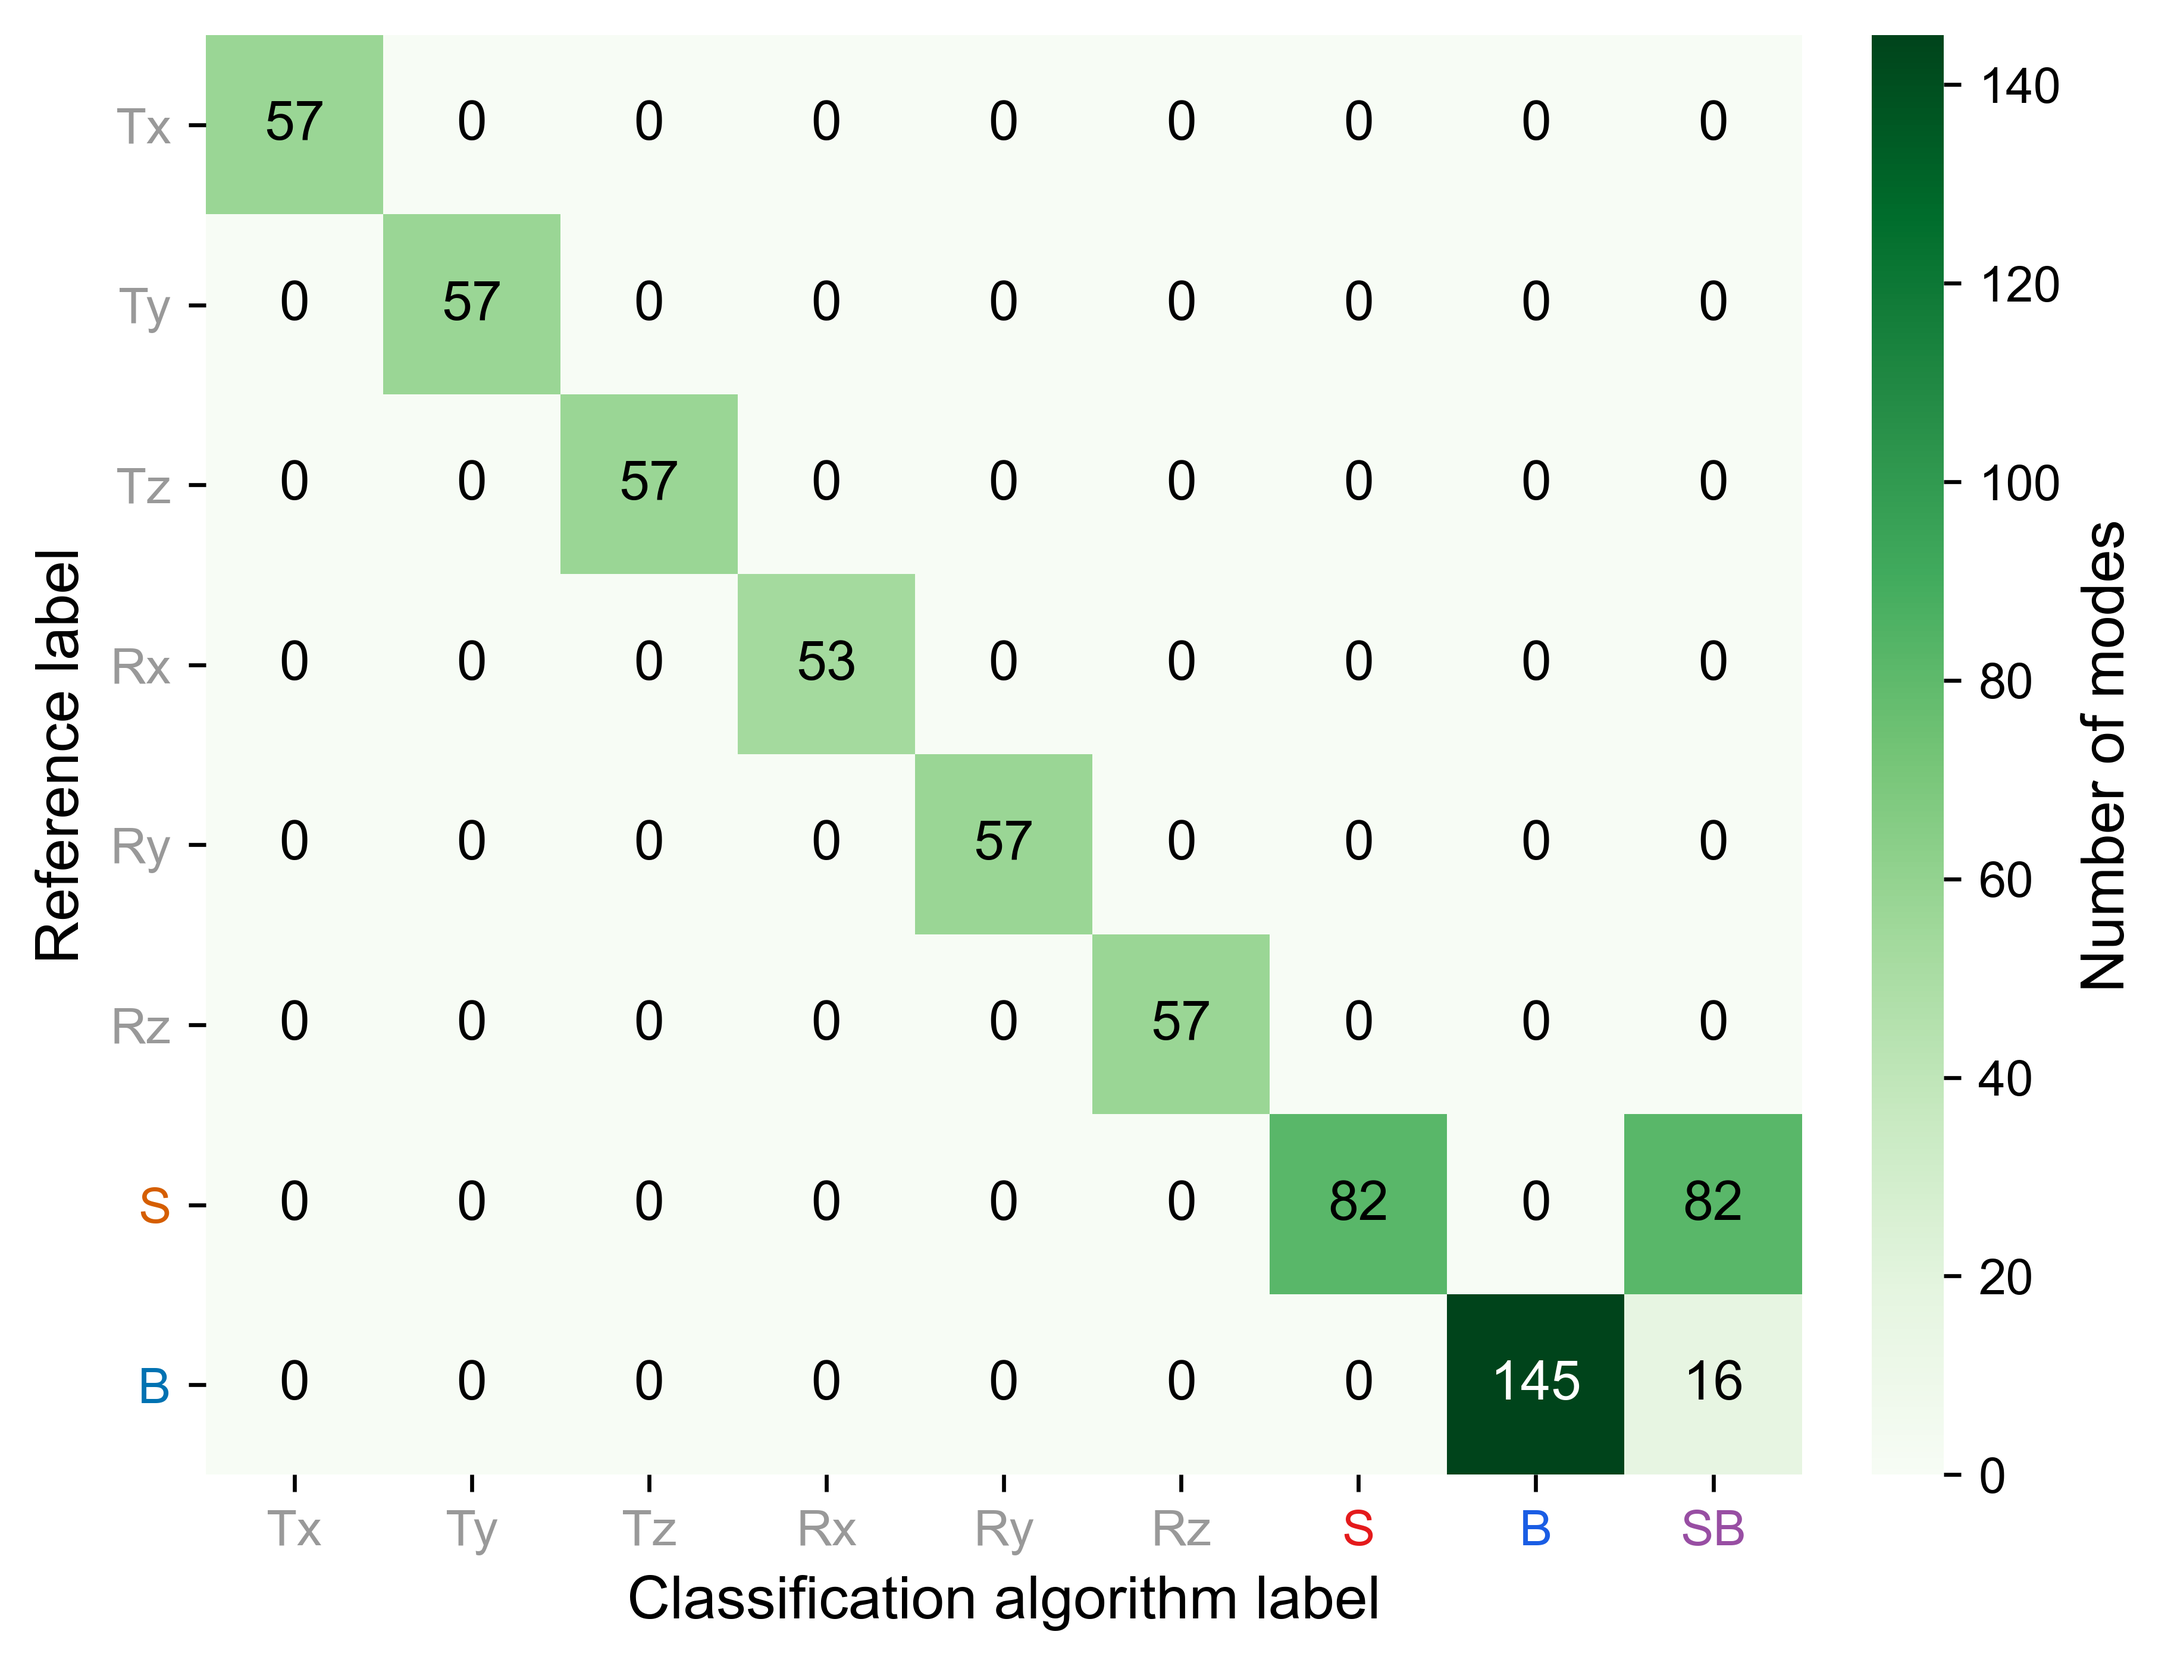
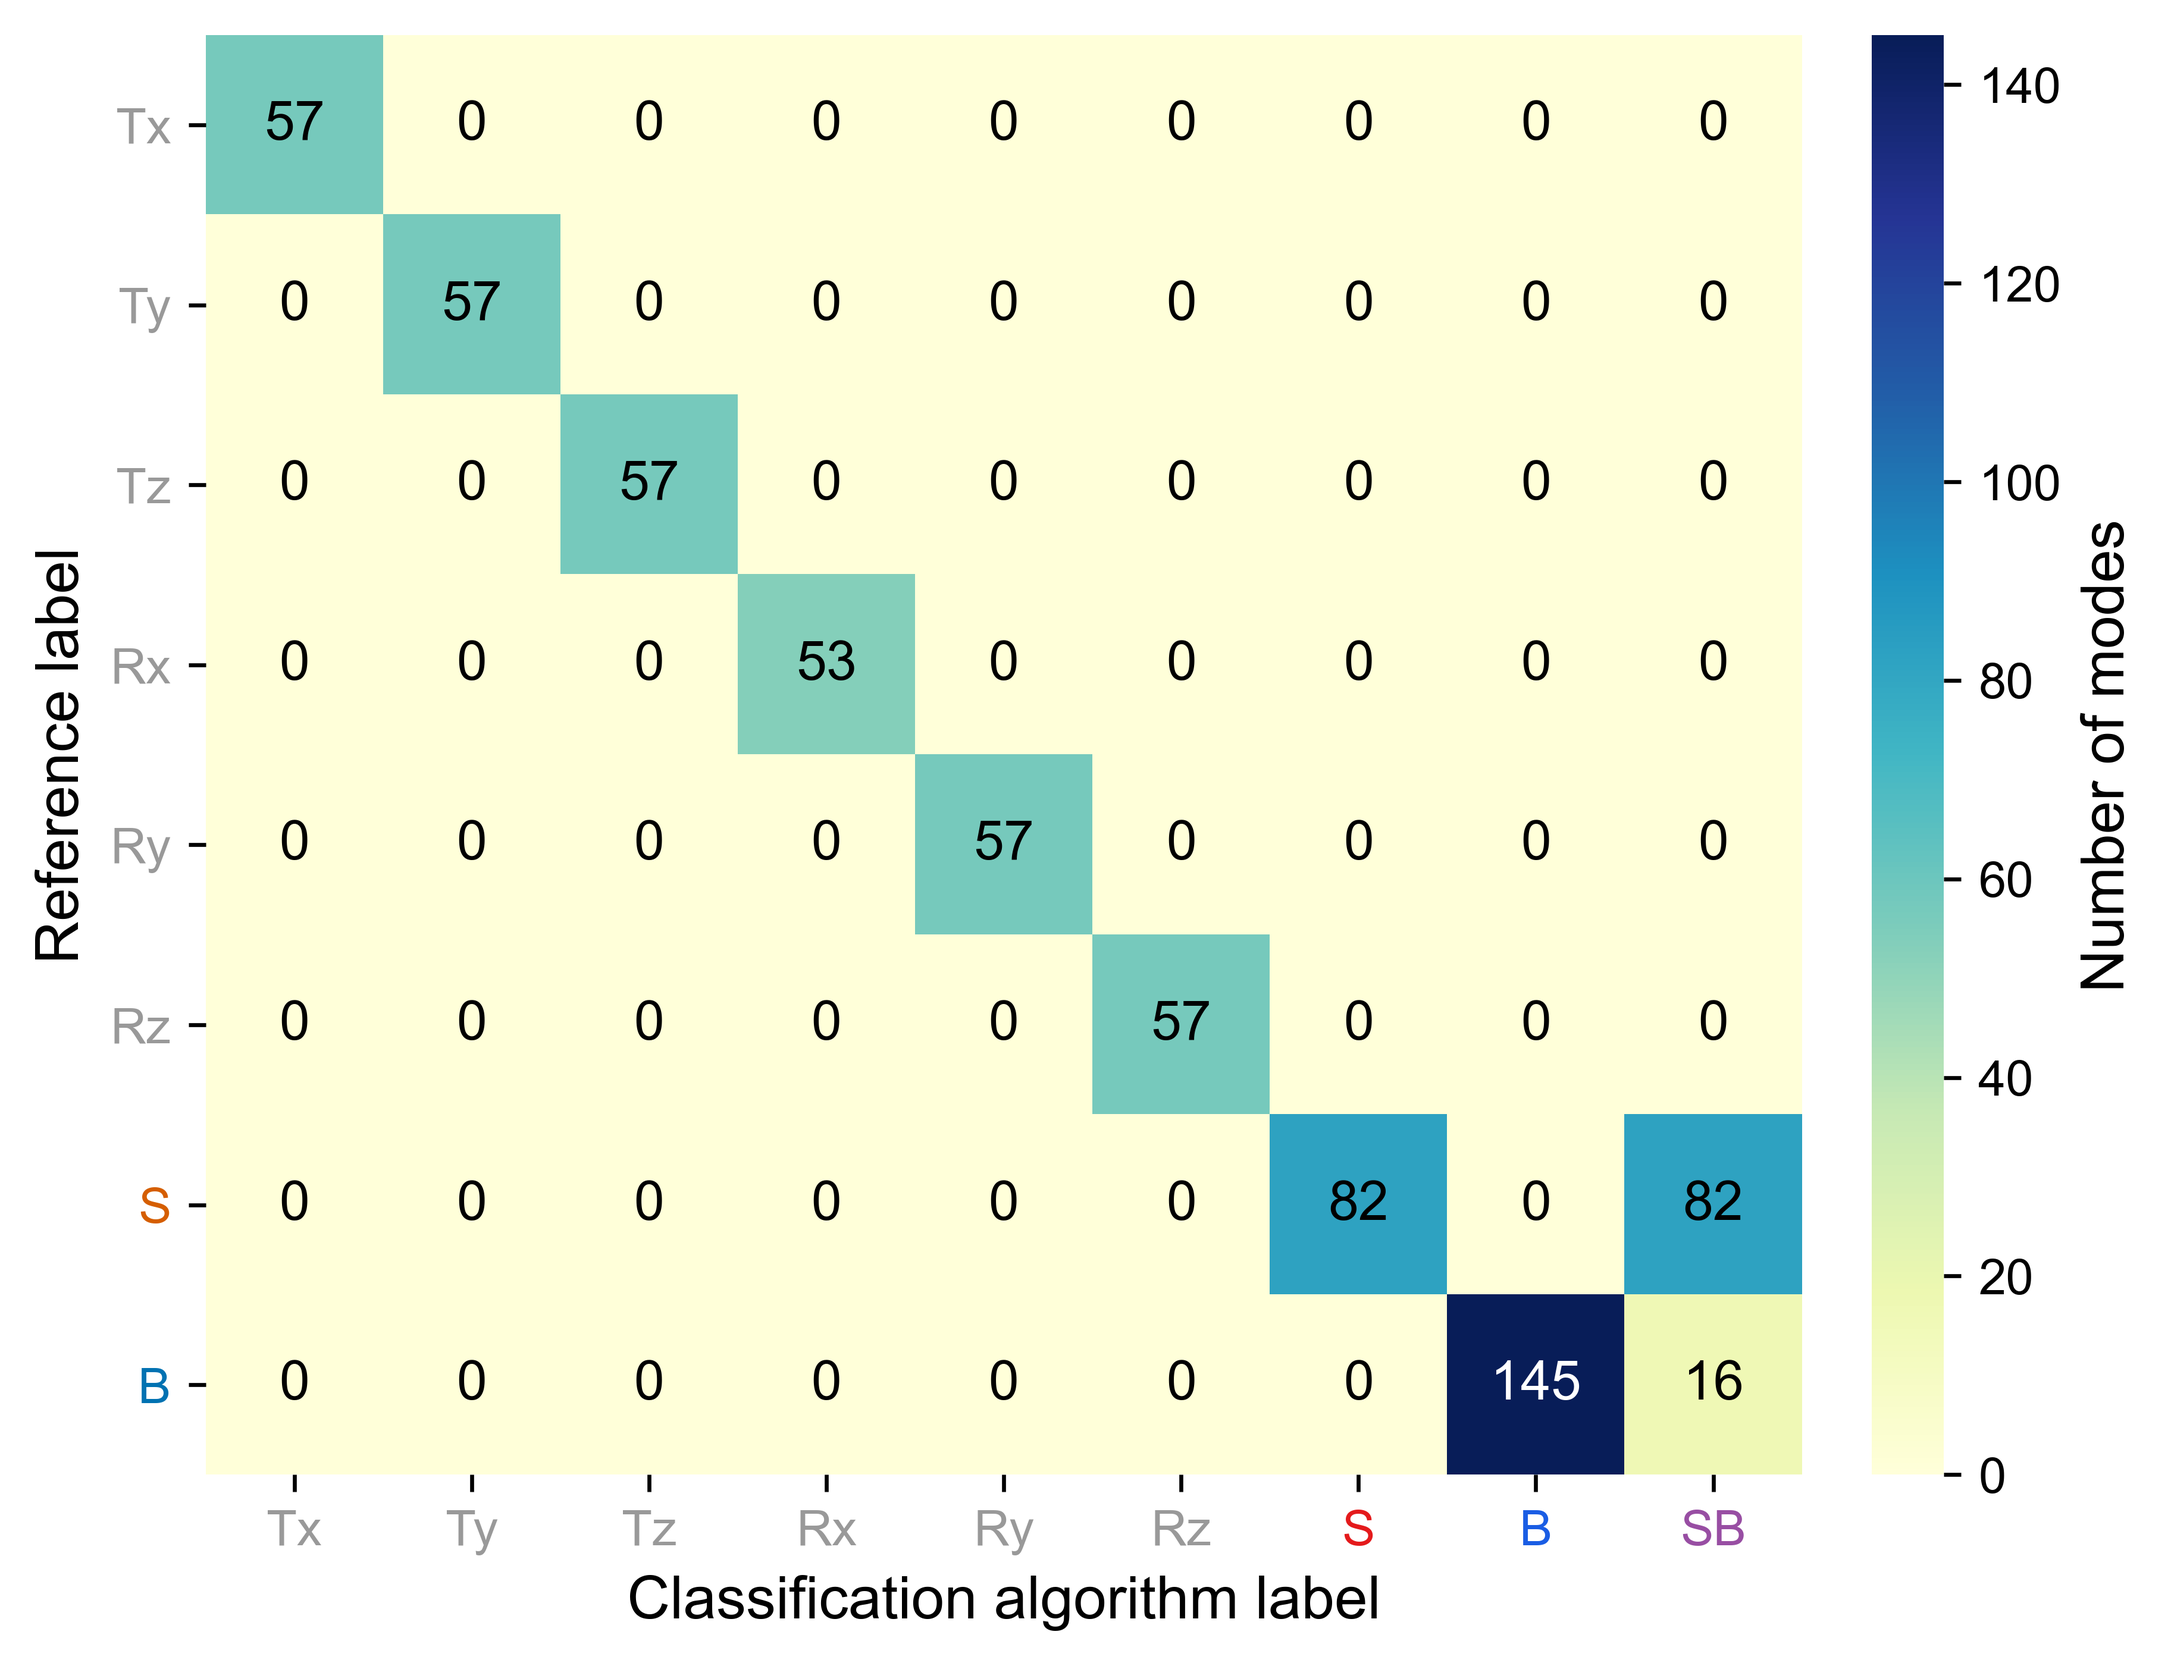
Switch confusion-matrix heatmap colormap to YlGnBu
Author-requested change from Greens. YlGnBu's dark end is blue-ish, the same
collision risk with the "bending" tick-label color that got Blues rejected
for this heatmap on 2026-07-23 -- flagged and knowingly accepted this time
rather than truncating the colormap or keeping Greens.

diff --git a/src/figures.py b/src/figures.py
@@ -175,13 +175,13 @@ COLORS = {
     "sens_change": "#000000",     # black     -- label-change-fraction curve, fig:sensitivity
     "plateau_band": "#56B4E9",    # sky blue @ low alpha -- tau_TR plateau shading, fig:sensitivity
     # sequential, colorblind-safe -- fig:confusion/fig:benzeneconfusion heatmap.
-    # CHANGED 2026-07-23 (author request) from "Blues": that map's high-value
-    # end (~#2070b4/#08306b) reads as nearly the same blue as the "bending"
-    # category color used for this SAME heatmap's tick labels, risking a cell
-    # shaded dark for a high COUNT (any category) being misread as "about
-    # bending." Green is not claimed by any category color (bend=blue,
-    # stretch=red/vermillion, mixed=purple, external=gray), so it can't collide.
-    "confusion_cmap": "Greens",
+    # CHANGED 2026-07-26 (author request) from "Greens" to "YlGnBu". NOTE:
+    # YlGnBu's high-value end (~#225ea8/#081d58) is blue-ish -- the SAME
+    # collision risk with the "bending" tick-label color (#1A5DE4) that got
+    # "Blues" rejected for this heatmap on 2026-07-23 (see git history). This
+    # was flagged and knowingly accepted rather than truncating the colormap
+    # or keeping Greens -- not an oversight if a future reader reconsiders it.
+    "confusion_cmap": "YlGnBu",
 }
 
 # Reference-label (library ground truth) / predicted-bucket -> shared
